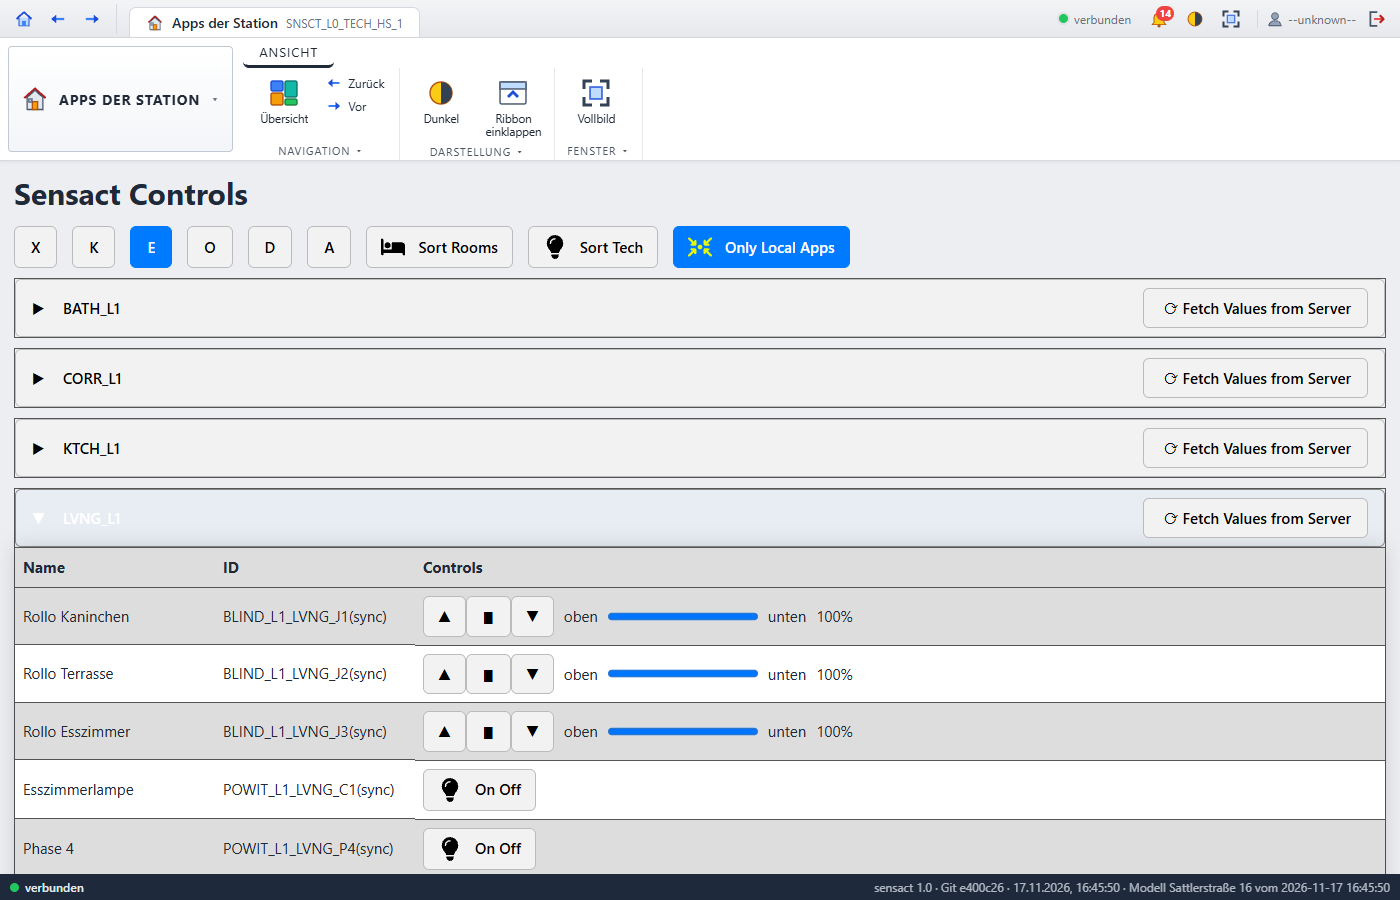
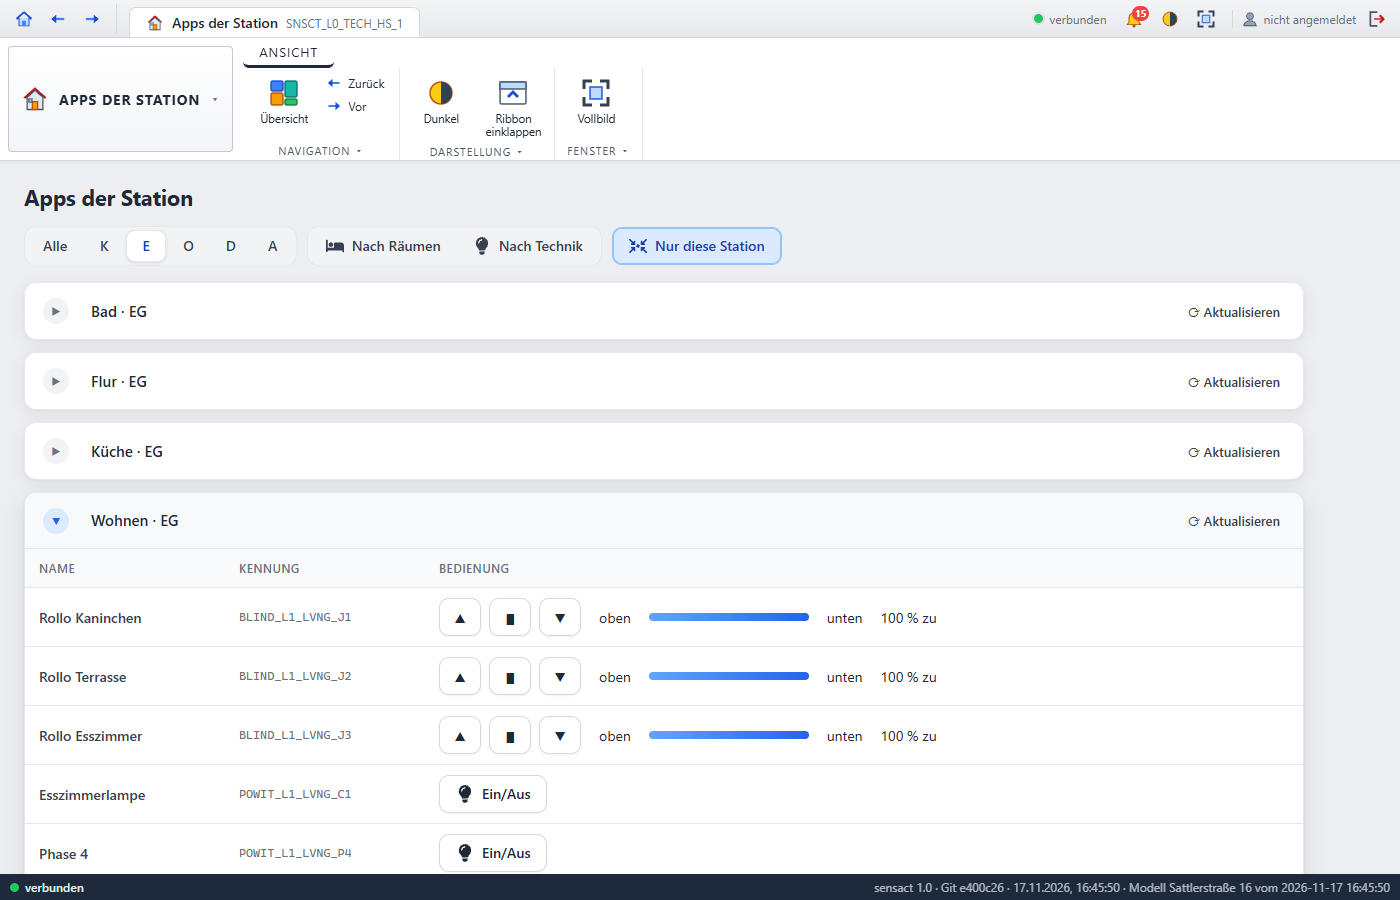
Weboberfläche: deutsche Beschriftungen, neues Erscheinungsbild
- Ein-/Ausgänge übersetzt und als kompakte Karten je Baustein
- Menübeschriftungen und Seitentitel auf Deutsch
- Dokumentation an die neuen Beschriftungen angepasst, Screenshots erneuert

Changed region(s): [[0.0, 0.3111, 0.9829, 0.9956], [0.0, 0.1867, 0.6143, 0.3111], [0.7371, 0.0, 0.9829, 0.0311]]

diff --git a/firmware/sensact_firmware/web/nodemaster_controller.ts b/firmware/sensact_firmware/web/nodemaster_controller.ts
@@ -32,12 +32,12 @@ export class NodemasterController extends ScreenController {
     public Template = () => html`
         <section ${ref(this.modeSection)}></section>
         <div class="buttons">
-            <button class="withsvg" @click=${() => this.requestInputs()}>⟳ Refresh Inputs</button>
-            <button class="withsvg" @click=${() => this.requestOutputs()}>⟳ Refresh Outputs</button>
+            <button class="withsvg" @click=${() => this.requestInputs()}>⟳ Eingänge aktualisieren</button>
+            <button class="withsvg" @click=${() => this.requestOutputs()}>⟳ Ausgänge aktualisieren</button>
         </div>
-        <h1>Inputs</h1>
+        <h1>Eingänge</h1>
         <section ${ref(this.inputSection)}></section>
-        <h2>Outputs</h2>
+        <h1>Ausgänge</h1>
         <section ${ref(this.outputSection)}></section>
     `;
 
@@ -63,33 +63,33 @@ export class NodemasterController extends ScreenController {
         };
     };
 
-    public InputTableTemplate = () => html`${this.inputRanges.map(({start, end, name}) => html`
+    public InputTableTemplate = () => html`<div class="io-ranges">${this.inputRanges.map(({start, end, name}) => html`<div class="io-range">
             <h3>${name}</h3>
             <table class="autowidth">
-                <thead><tr><th>Index</th><th>Value</th><th>Action</th></tr></thead>
+                <thead><tr><th>Index</th><th>Wert</th><th>Aktion</th></tr></thead>
                 <tbody>
-                    ${Array.from({length: end - start}, (_, i) => start + i).map(idx => html`<tr><td>${idx}</td><td class=${classMap(this.getInputRowClass(idx))}>${this.inputValues[idx] ?? '-'}</td><td><button @click=${() => this.updateInput(idx)}>Update</button></td></tr>`)}
+                    ${Array.from({length: end - start}, (_, i) => start + i).map(idx => html`<tr><td>${idx}</td><td class=${classMap(this.getInputRowClass(idx))}>${this.inputValues[idx] ?? '-'}</td><td><button @click=${() => this.updateInput(idx)}>Lesen</button></td></tr>`)}
                 </tbody>
             </table>
-        `)}
+        </div>`)}</div>
     `;
 
-public OutputTableTemplate = () => html`${this.outputRanges.map(({start, end, name}) => html`
+public OutputTableTemplate = () => html`<div class="io-ranges">${this.outputRanges.map(({start, end, name}) => html`<div class="io-range">
             <h3>${name}</h3>
             <table class="autowidth">
-                <thead><tr><th>Index</th><th>Value</th><th>Actions</th></tr></thead>
+                <thead><tr><th>Index</th><th>Wert</th><th>Aktionen</th></tr></thead>
                 <tbody>
                     ${Array.from({length: end - start}, (_, i) => start + i).map(idx => {
                         const disabled = this.manualMode !== true;
-                        return html`<tr><td>${idx}</td><td>${this.outputValues[idx] ?? '-'}</td><td><button ?disabled=${disabled} @click=${() => this.updateOutput(idx, 0)}>Set 0</button><button ?disabled=${disabled} style="margin-left: 5px;" @click=${() => this.updateOutput(idx, 1)}>Set 1</button><button ?disabled=${disabled} style="margin-left: 15px;" @click=${(e: Event) => {
+                        return html`<tr><td>${idx}</td><td>${this.outputValues[idx] ?? '-'}</td><td><button ?disabled=${disabled} @click=${() => this.updateOutput(idx, 0)}>Aus</button><button ?disabled=${disabled} style="margin-left: 5px;" @click=${() => this.updateOutput(idx, 1)} title="Wert 1">Ein</button><button ?disabled=${disabled} style="margin-left: 15px;" @click=${(e: Event) => {
                             const input = (e.target as HTMLElement).parentElement?.querySelector('input[type="number"]') as HTMLInputElement;
                             const value = input ? Number(input.value) : 0;
                             this.updateOutput(idx, value);
-                        }}>Set</button><input ?disabled=${disabled} type="number" min="0" max="65535" value="0" style="width:60px;"/></td></tr>`;
+                        }} title="Wert aus dem Feld daneben setzen (0..65535)">Setzen</button><input ?disabled=${disabled} type="number" min="0" max="65535" value="0" style="width:60px;"/></td></tr>`;
                     })}
                 </tbody>
             </table>
-        `)}
+        </div>`)}</div>
     `;
 
 
@@ -102,7 +102,7 @@ public OutputTableTemplate = () => html`${this.outputRanges.map(({start, end, na
                 this.inputRanges = ri.ranges.map((range, i) => ({
                     start: range.start,
                     end: range.end,
-                    name: range.name || `Range ${i}`
+                    name: range.name || `Bereich ${i}`
                 }));
                 this.currentRangeIndex = 0;
                 this.currentOffsetInRange = 0;
@@ -117,7 +117,7 @@ public OutputTableTemplate = () => html`${this.outputRanges.map(({start, end, na
                 this.outputRanges = ro.ranges.map((range, i) => ({
                     start: range.start,
                     end: range.end,
-                    name: range.name || `Range ${i}`
+                    name: range.name || `Bereich ${i}`
                 }));
                 console.info(`Received output ranges: ${JSON.stringify(this.outputRanges)}`);
                 if (this.outputSection.value) {

diff --git a/firmware/sensact_firmware/web/app.ts b/firmware/sensact_firmware/web/app.ts
@@ -42,15 +42,15 @@ document.addEventListener("DOMContentLoaded", (_) => {
     { icon: "dashboard", group: "Übersicht", description: "Alle Arbeitsbereiche" })
   const s = new SensactController(app);
   s.AddApps(SensactAppsBuild(s));
-  app.AddScreenController("sensact", new RegExp("^/sensact$"), html`<span>SensAct</span>`, s,
+  app.AddScreenController("sensact", new RegExp("^/sensact$"), html`<span>Apps der Station</span>`, s,
     { title: "Apps der Station", icon: "house", group: "Haus", description: "Licht, Rollläden, Szenen dieser Station bedienen" })
   // @ts-ignore
   if(CFG.NODE_ID=="SNSCT_NODE_SIDEDOOR")
-    app.AddScreenController("finger", new RegExp("^/finger$"), html`<span>Fingerprint</span>`, new FingerprintScreenController(app),
+    app.AddScreenController("finger", new RegExp("^/finger$"), html`<span>Fingerabdruck</span>`, new FingerprintScreenController(app),
       { title: "Fingerabdruck", icon: "key", group: "Haus", description: "Fingerabdrücke anlernen und verwalten" })
-  app.AddScreenController("nodemaster", new RegExp("^/nodemaster$"), html`<span>Node Master</span>`, new NodemasterController(app),
+  app.AddScreenController("nodemaster", new RegExp("^/nodemaster$"), html`<span>Ein-/Ausgänge</span>`, new NodemasterController(app),
     { title: "Ein-/Ausgänge", icon: "registers", group: "Diagnose", description: "Ein- und Ausgänge des Knotens direkt lesen und schalten" })
-  app.AddScreenController("canmon", new RegExp("^/canmon$"), html`<span>Can Bus Monitor</span>`, new CanMonitorScreenController(app),
+  app.AddScreenController("canmon", new RegExp("^/canmon$"), html`<span>CAN-Monitor</span>`, new CanMonitorScreenController(app),
     { title: "CAN-Monitor", icon: "can", group: "Diagnose", description: "Nachrichten auf dem CAN-Bus mitlesen" })
   app.AddScreenController("journal", new RegExp("^/journal$"), html`<span>Journal</span>`, new JournalController(app),
     { icon: "book", group: "Diagnose", description: "Ereignisse der Station" })

diff --git a/firmware/sensact_firmware/web/index.html b/firmware/sensact_firmware/web/index.html
@@ -1,10 +1,10 @@
 <!doctype html>
-<html>
+<html lang="de">
 
 <head>
   <meta charset="utf-8">
[1 lines of base64/hex data omitted]
-  <title>SensAct WebUI Dashboard</title>
+  <title>SensAct</title>
   <script type="module" src="./app.ts"></script>
 </head>
 <body>

diff --git a/docs/nutzer/weboberflaeche.md b/docs/nutzer/weboberflaeche.md
@@ -27,13 +27,13 @@ Abmelden über das Symbol ganz rechts in der Titelleiste.
 
 ![Apps eines Raums](../bilder/web-apps-raum.png)
 
-- Die Geräte erscheinen in aufklappbaren Gruppen. **Sort Rooms** gruppiert nach Räumen
-  (z. B. `LVNG_L1` = Wohnen, Erdgeschoss), **Sort Tech** nach Art (Rollläden, Lampen, Dimmer …).
-- Die Buchstaben filtern nach Etage: **X** alle, **K** Keller, **E** Erdgeschoss, **O** Obergeschoss,
+- Die Geräte erscheinen in aufklappbaren Gruppen. **Nach Räumen** gruppiert nach Räumen
+  (z. B. „Wohnen · EG“), **Nach Technik** nach Art (Rollläden und Markisen, Schaltausgänge, Dimmer …).
+- Die Knöpfe daneben filtern nach Etage: **Alle**, **K** Keller, **E** Erdgeschoss, **O** Obergeschoss,
   **D** Dachgeschoss, **A** außen.
-- **Only Local Apps** (blau = an) zeigt nur die Geräte, die an *dieser* Station angeschlossen sind. Aus
+- **Nur diese Station** (blau = an) zeigt nur die Geräte, die an *dieser* Station angeschlossen sind. Aus
   geschaltet erscheinen alle Geräte des Hauses; auch die lassen sich schalten.
-- **Fetch Values from Server** holt den aktuellen Zustand der Gruppe; Änderungen erscheinen sonst von
+- **Aktualisieren** holt den aktuellen Zustand der Gruppe; Änderungen erscheinen sonst von
   selbst.
 
 Bedienelemente:
@@ -41,8 +41,8 @@ Bedienelemente:
 | Gerät | Bedienung |
 |---|---|
 | Rollladen | ▲ auf, ■ Stopp, ▼ ab (wie ein kurzer Tastendruck); Balken und Prozentzahl zeigen, wie weit er geschlossen ist (100 % = ganz zu, 0 % = ganz offen) |
-| Lampe | **On Off** schaltet um |
-| Dimmer | **On Off** schaltet um, der Schieberegler stellt die Helligkeit |
+| Lampe | **Ein/Aus** schaltet um |
+| Dimmer | **Ein/Aus** schaltet um, der Schieberegler stellt die Helligkeit |
 
 ![Dimmer und Rollladen im Bad](../bilder/web-apps-dimmer.png)
 
@@ -76,15 +76,15 @@ D/V Details), Herkunft und Text. Fehler sind rot, Warnungen gelb hinterlegt.
 ### System
 
 Kennwerte der Station (Uhrzeit, Laufzeit, freier Speicher, Firmware-Partitionen) und unter
-**Dangerous Zone**:
+**Achtung: Eingriffe in die Station**:
 
 ![Stationspaket und Firmware-Update](../bilder/web-system-paket.png)
 
-- **Station Package:** neues Stationspaket hochladen (Datei wählen → *Upload Station Package*). Die Station
+- **Stationspaket:** neues Stationspaket hochladen (Datei auswählen → *Stationspaket hochladen*). Die Station
   prüft das Paket, startet neu und die Seite lädt sich danach selbst neu.
-- **Over-the-air Firmware Update:** neue Firmware hochladen. Die Station startet danach neu; die Seite
+- **Firmware-Update:** neue Firmware hochladen (Datei auswählen → *Firmware-Update starten*). Die Station startet danach neu; die Seite
   nach etwa einer Minute neu laden.
-- **Restart:** Neustart.
+- **Neustart:** Station neu starten.
 
 Diese Funktionen sind für den Betreuer gedacht; die Abläufe stehen in
 [Betrieb und Änderungen](betrieb-und-aenderungen.md).

diff --git a/docs/nutzer/betrieb-und-aenderungen.md b/docs/nutzer/betrieb-und-aenderungen.md
@@ -66,8 +66,8 @@ flowchart LR
    dotnet run --project builder -- BuildPackageFor --nodeId SNSCT_L0_TECH_HS_1 --model Sattlerstrasse16
    ```
 
-5. **Hochladen** – Weboberfläche der Station → **System** → *Station Package* → Datei wählen →
-   *Upload Station Package*. Die Station prüft das Paket, startet neu und arbeitet mit der neuen
+5. **Hochladen** – Weboberfläche der Station → **System** → *Stationspaket* → Datei auswählen →
+   *Stationspaket hochladen*. Die Station prüft das Paket, startet neu und arbeitet mit der neuen
    Konfiguration; die Seite lädt sich selbst neu.
 
    ![Stationspaket hochladen](../bilder/web-system-paket.png)
@@ -109,7 +109,7 @@ Nötig, wenn sich der Code geändert hat (Fehlerbehebung, neuer App-Typ, neues K
    dotnet run --project builder -- BuildForOta --model Sattlerstrasse16
    ```
    Ergebnis in `deploy/SNSCT_L0_TECH_HS_1/`: `sensact_firmware.bin`, `SNSCT_L0_TECH_HS_1.pkg`, `README.txt`.
-3. Weboberfläche → **System** → *Over-the-air Firmware Update*: Firmware hochladen, Neustart abwarten.
+3. Weboberfläche → **System** → *Firmware-Update*: Datei auswählen → *Firmware-Update starten*, Neustart abwarten.
 4. Passt das bisherige Paket nicht mehr zur neuen Firmware, zeigt die Station die **Wartungsseite**
    (Sicherheitsmodus, Geräte außer Betrieb). Dort das neue Paket hochladen.
 

diff --git a/docs/konzepte/07-weboberflaeche.md b/docs/konzepte/07-weboberflaeche.md
@@ -60,9 +60,10 @@ Konfiguration gemeinsam im Paket reisen, passen sie immer zusammen.
 
 ![Apps eines Raums: Rollläden und Lampen](../bilder/web-apps-raum.png)
 
-Gruppiert wird nach Technik (Typ-Präfix des Namens) oder nach Raum (Ebene und Raum aus dem Namen), mit
-Filtern für die Ebenen K (Keller), E (Erdgeschoss), O (Obergeschoss), D (Dachgeschoss), A (außen).
-„Only Local Apps“ zeigt nur die Apps dieser Station; ausgeschaltet lassen sich alle Apps des Hauses
+Gruppiert wird nach Technik (Typ-Präfix des Namens, angezeigt als „Dimmer“, „Rollläden und Markisen“ …) oder
+nach Raum (Raum und Ebene aus dem Namen, angezeigt als „Wohnen · EG“); die Klartexte stehen in
+`sensact-base/application_id_utils.ts`. Filter für die Ebenen K (Keller), E (Erdgeschoss), O (Obergeschoss),
+D (Dachgeschoss), A (außen). „Nur diese Station“ zeigt nur die Apps dieser Station; ausgeschaltet lassen sich alle Apps des Hauses
 schalten (die Kommandos gehen dann über CAN).
 
 ## Wartungsseite

diff --git a/docs/konzepte/04-kommunikation.md b/docs/konzepte/04-kommunikation.md
@@ -109,4 +109,4 @@ sequenceDiagram
   `fingerprint` u. a.
 - Ein Kommando aus dem Browser nimmt denselben Weg wie eines von einer lokalen App: Läuft die Ziel-App
   auf einer anderen Station, geht es auf den CAN-Bus. So lässt sich von jeder ESP32-Station aus jede App
-  im Haus schalten („Only Local Apps“ aus).
+  im Haus schalten („Nur diese Station“ aus).

diff --git a/docs/konzepte/06-konfiguration-und-auslieferung.md b/docs/konzepte/06-konfiguration-und-auslieferung.md
@@ -45,7 +45,7 @@ Stationspaket. Es gibt keinen Zustand „neue Konfiguration, alte Oberfläche“
 
 ```mermaid
 sequenceDiagram
-    participant B as Browser (System → Station Package)
+    participant B as Browser (System → Stationspaket)
     participant S as Station
     B->>S: POST /package (Login nötig)
     S->>S: in package.tmp schreiben
